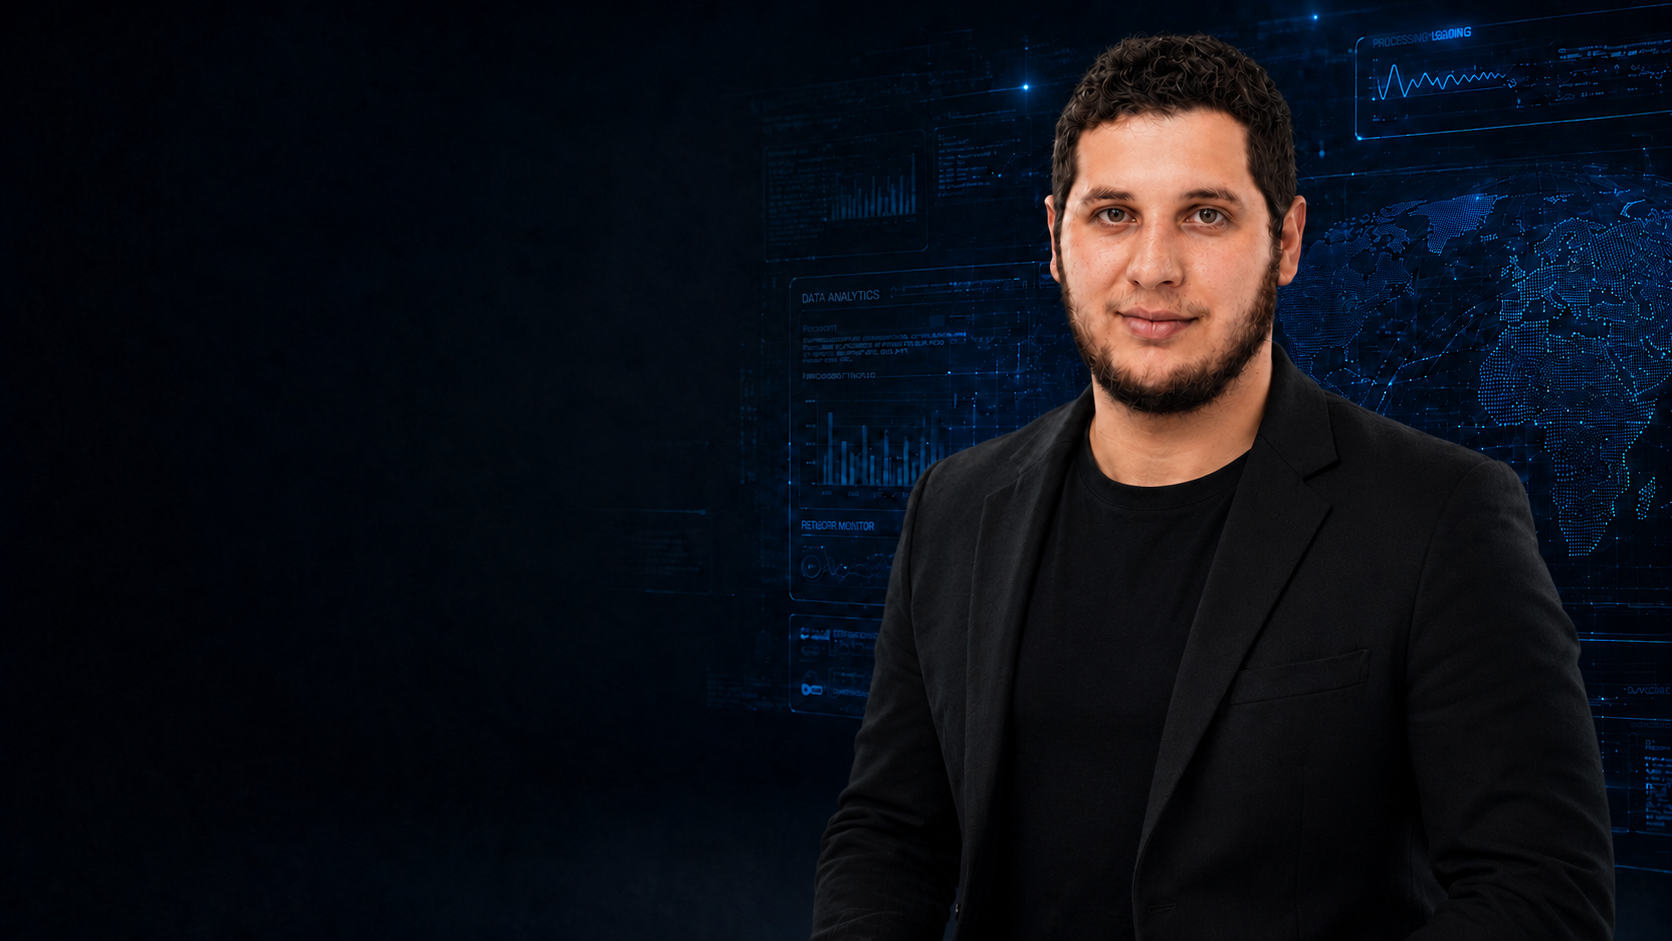
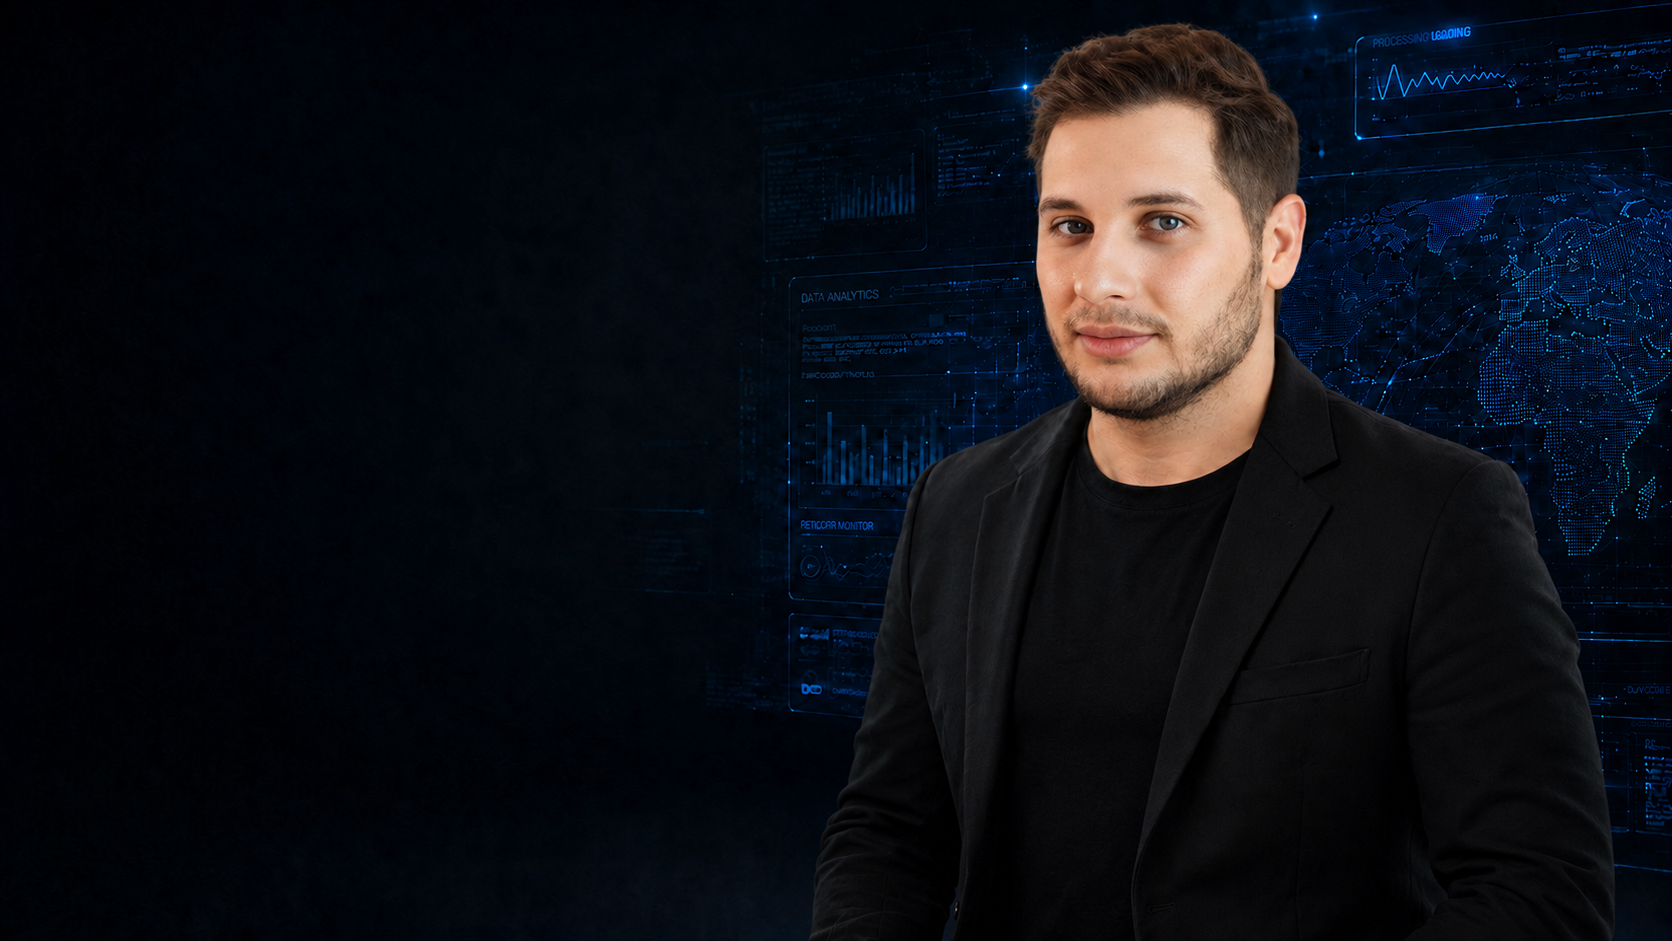
rtl hero image fixed

diff --git a/components/site/home/HomePage.tsx b/components/site/home/HomePage.tsx
@@ -71,17 +71,24 @@ function Hero() {
   const { t } = useI18n();
   return (
     <section className="relative -mt-[68px] flex min-h-[100svh] items-center overflow-hidden">
-      {/* Cinematic full-bleed background image */}
+      {/* Cinematic full-bleed background image — separate crop for mobile */}
+      <Image
+        src="/hero-image-mobile.png"
+        alt="Zakeri Labs – AI Website Growth Infrastructure"
+        fill
+        priority
+        className="object-cover object-center rtl:-scale-x-100 lg:hidden"
+      />
       <Image
         src="/hero-image.png"
         alt="Zakeri Labs – AI Website Growth Infrastructure"
         fill
         priority
-        className="object-cover object-center"
+        className="hidden object-cover object-center rtl:-scale-x-100 lg:block"
       />
 
-      {/* Left gradient — keeps text readable */}
-      <div className="absolute inset-0 bg-gradient-to-r from-background via-background/75 to-background/10" />
+      {/* Side gradient — keeps text readable; flips to the right edge in RTL */}
+      <div className="absolute inset-0 bg-gradient-to-r from-background via-background/75 to-background/10 rtl:bg-gradient-to-l" />
       {/* Top fade — blends behind the header */}
       <div className="absolute inset-x-0 top-0 h-40 bg-gradient-to-b from-background/70 to-transparent" />
       {/* Bottom fade — blends into next section */}
@@ -93,12 +100,14 @@ function Hero() {
           <span className="inline-flex items-center gap-2 rounded-full border border-primary/30 bg-primary/10 px-3 py-1 text-[11px] font-medium text-primary">
             <Sparkles className="h-3 w-3" /> {t("hero.badge")}
           </span>
-          <h1 className="mt-5 font-display text-4xl font-bold leading-[1.05] text-foreground sm:text-5xl lg:text-[3.5rem]">
+          <h1 className="mt-5 max-w-[15rem] font-display text-4xl font-bold leading-[1.05] text-foreground sm:max-w-none sm:text-5xl lg:text-[3.5rem]">
             {t("hero.titlePre")}
             <span className="gradient-text">{t("hero.titleHl")}</span>
             {t("hero.titlePost")}
           </h1>
-          <p className="mt-5 max-w-xl text-base text-muted-foreground">{t("hero.desc")}</p>
+          <p className="mt-5 max-w-[15rem] text-base text-muted-foreground sm:max-w-xl">
+            {t("hero.desc")}
+          </p>
           <div className="mt-7 flex flex-wrap items-center gap-3">
             <Button asChild size="lg" className="shadow-[var(--shadow-elegant)]">
               <Link href="/contact">